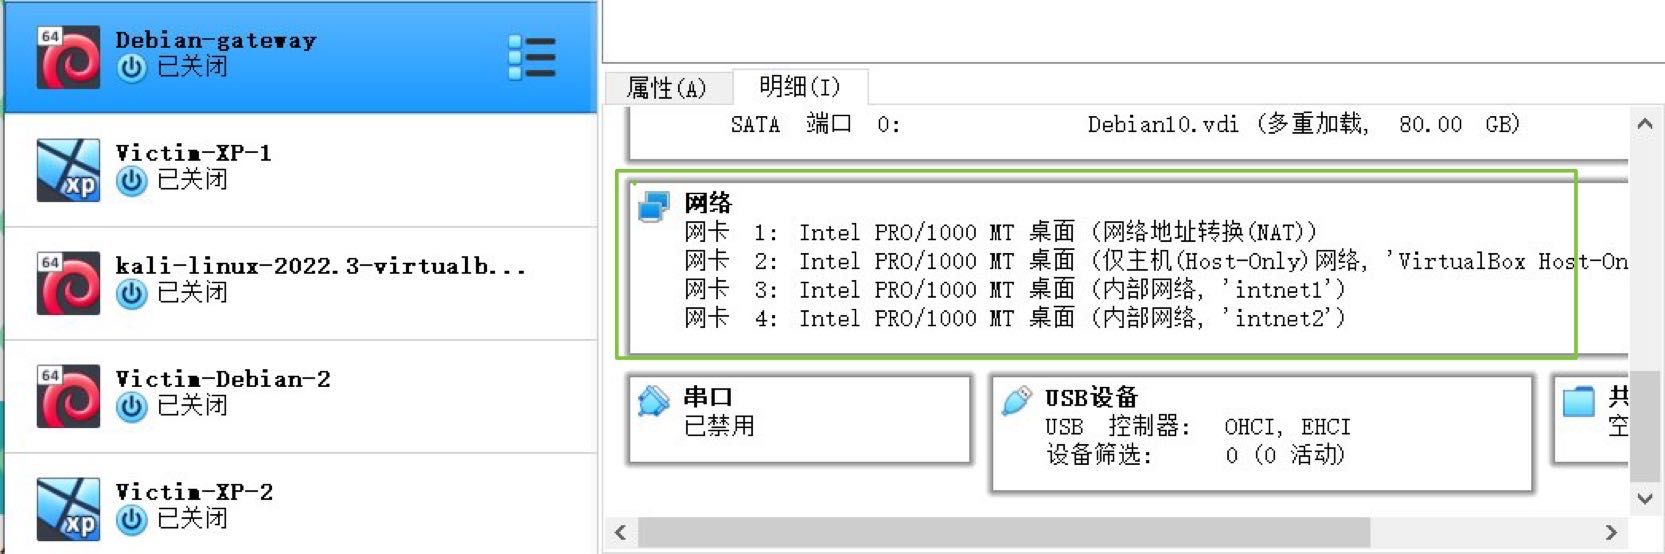
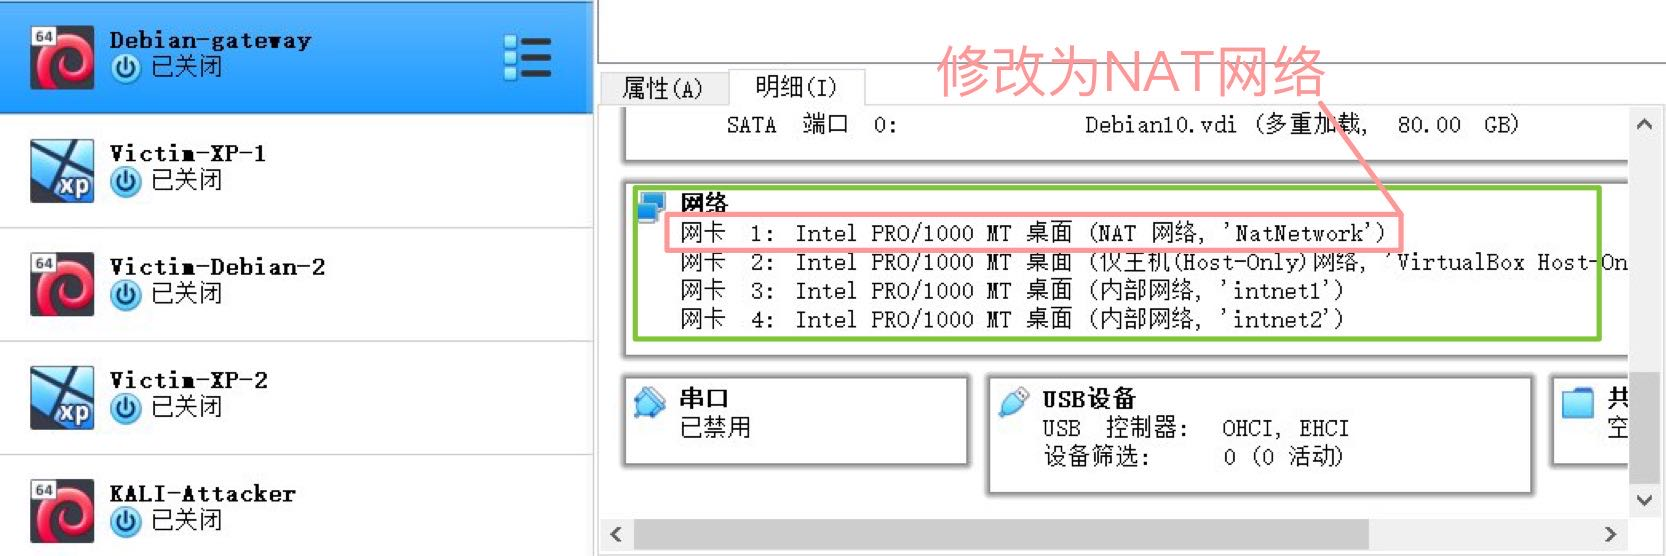
Modifications

diff --git a/Report1.md b/Report1.md
@@ -21,16 +21,16 @@
 
 - 搭建满足如下拓扑图所示的虚拟机网络拓扑；
 
-  ![img](https://c4pr1c3.github.io/cuc-ns/chap0x01/attach/chap0x01/media/vb-exp-layout.png)
+  ![topological_graph](img/topological_graph.jpg)
 
 > 根据实验宿主机的性能条件，可以适度精简靶机数量
 
 - 完成以下网络连通性测试；
-  - [√ ] 靶机可以直接访问攻击者主机
-  - [√ ] 攻击者主机无法直接访问靶机
-  - [√ ] 网关可以直接访问攻击者主机和靶机
-  - [√ ] 靶机的所有对外上下行流量必须经过网关
-  - [√ ] 所有节点均可以访问互联网
+  - - [x] 靶机可以直接访问攻击者主机
+  - - [x] 攻击者主机无法直接访问靶机
+  - - [x] 网关可以直接访问攻击者主机和靶机
+  - - [x]  靶机的所有对外上下行流量必须经过网关
+  - - [x] 所有节点均可以访问互联网
 
 ## 实验步骤
 
@@ -46,12 +46,12 @@
 
 **网关（Debian-gateway）**
 
-| 网卡  |                     设置                      |
-| :---: | :-------------------------------------------: |
-| 网卡1 | 网络地址转换，NAT网络，实现与外部攻击者的联系 |
-| 网卡2 |              仅主机（Host-Only）              |
-| 网卡3 |           内部网络，局域网internet1           |
-| 网卡4 |           内部网络，局域网internet2           |
+| 网卡  |                     设置                     |
+| :---: | :------------------------------------------: |
+| 网卡1 | NAT网络（非NAT网络），实现与外部攻击者的联系 |
+| 网卡2 |             仅主机（Host-Only）              |
+| 网卡3 |          内部网络，局域网internet1           |
+| 网卡4 |          内部网络，局域网internet2           |
 
 ![gateway_network_card](img/gateway_network_card.jpg)
 
@@ -117,7 +117,7 @@
 
 3.4靶机的所有对外上下行流量必须经过网关
 
-靶机ping互联网，用网管抓包，如果靶机发送的所有包都能被网关抓到则得证。
+靶机ping互联网，用网关抓包，如果靶机发送的所有包都能被网关抓到则得证。
 
 ```bash
   # 网关抓包
@@ -126,8 +126,11 @@
   # tcpdump更新
   $ apt update && aptinstall tmux
   
-  # 抓包
+  # 抓包参考
   $ tcpdump -i enp0s9 -n -w 20210908.1.pcap
+  
+  # 抓包操作
+  $ tcpdump -i enp0s9 -n -2 20220923.1.pcap
 ```
 
 - 局域网1靶机
@@ -181,3 +184,11 @@
 - [多重加载功能介绍](https://blog.csdn.net/Jeanphorn/article/details/45056251)
 - [Host-Only网卡配置](https://www.likecs.com/show-203630914.html)
 - [无法ping通时一些小tips](https://blog.csdn.net/a17377298306/article/details/104829017)
+- [NAT网络](https://www.yisu.com/zixun/63512.html)
+- [Lychee](https://github.com/CUCCS/2021-ns-public-Lychee00/blob/chap0x01/chap0x01/report01.md)
+
+## 修改
+
+- 网关和攻击者错配置为NAT网卡而非NAT网络，但之前的连通性测试并未受到影响，查询资料得知二者均有提供外部公网IP地址的作用，但NAT网络为提前创建好网络以供后续选择。将网关与攻击者更改为NAT网络（图片中粉色部分标注为修改部分）
+- 删除图片外链、更改了笔误以及Markdown标明列表项完成时打对勾的方式
+- 在进行抓包操作`tcpdump -i enp0s9 -n -w 20220923.1.pcap`时文中所引用为师姐作业中代码块（参考资料内补充了师姐的仓库链接），仅作参考使用所以忘记更新为自己的文件名，在后面补充了一条更改为自己文件的代码用以与图片所显示结果相同
